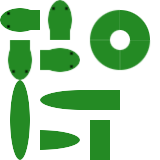
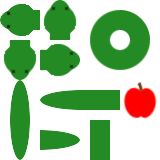
feat: add apple sprite and enhance snake visuals
- Fix transparency issues on snake body joints
- Increase snake head size for better visibility
- Add apple sprite to sprite sheet
- Implement Apple class in food.py
- Replace pellet with apple as snake food
- Update game to use apple instead of pellet class object

diff --git a/states/play_state.py b/states/play_state.py
@@ -8,14 +8,14 @@ from typing import TYPE_CHECKING
 if TYPE_CHECKING:
     from pathlib import Path
     from snake import Snake
-    from food import Pellet
+    from food import Apple
     from game_data import Game
 
 class PlayState(BaseState):
-    def __init__(self, snake: 'Snake', pellet: 'Pellet', grid_coords: list, game: 'Game', font_name: str, hs_file: 'Path'):
+    def __init__(self, snake: 'Snake', apple: 'Apple', grid_coords: list, game: 'Game', font_name: str, hs_file: 'Path'):
         super().__init__()
         self.snake = snake
-        self.pellet = pellet
+        self.apple = apple
         self.game = game
         self.grid_coords = grid_coords
         self.screen_width = SCREEN_WIDTH
@@ -50,16 +50,16 @@ class PlayState(BaseState):
             if new_high_score_check(self.hs_file, self.game.score, self.game.high_score):
                 self.game.high_score = self.game.score
 
-        if self.snake.head() == self.pellet.food_position:
+        if self.snake.head() == self.apple.food_position:
             self.game.score += 1
             self.snake.grow()
-            self.pellet.spawn(self.grid_coords, self.snake.body)
+            self.apple.spawn(self.grid_coords, self.snake.body)
 
 
     def draw(self, surface) -> None:
         self.draw_ui(surface, CHARCOAL, BORDER_GRAY, TEXT_WHITE, self.font_name)
         self.snake.draw(surface)
-        self.pellet.draw(surface)
+        self.apple.draw(surface)
 
 
     def draw_ui(self, surface, bar_colour: tuple, border_colour: tuple, text_colour: tuple, font_name: str) -> None:

diff --git a/main.py b/main.py
@@ -4,7 +4,7 @@ from settings import SCREEN_HEIGHT, SCREEN_WIDTH, FONT_NAME, HS_FILE, SEGMENT_SI
 from game_data import Game
 from graphics_manager import GraphicsManager
 from snake import Snake
-from food import Pellet
+from food import Apple
 from states import BaseState, TitleState, PlayState, GameOverState
 from utilities import load_or_create_file
 
@@ -53,10 +53,10 @@ while running:
 
     if current_state.next_state == "PLAY":
         snake: Snake = Snake(game)
-        pellet: Pellet = Pellet()
-        pellet.spawn(GRID_COORDS, snake.body)
+        apple: Apple = Apple(game.graphics_manager.apple)
+        apple.spawn(GRID_COORDS, snake.body)
         game.score = 0
-        current_state = PlayState(snake, pellet, GRID_COORDS, game, font_name, hs_file)
+        current_state = PlayState(snake, apple, GRID_COORDS, game, font_name, hs_file)
     elif current_state.next_state == "GAME_OVER":
             current_state = GameOverState(game)
     elif current_state.next_state == "TITLE":

diff --git a/graphics_manager.py b/graphics_manager.py
@@ -21,8 +21,7 @@ class GraphicsManager:
         self.snake_NE = pg.transform.scale_by(self.get_sprite(self.snake_spritesheet, 120, 0, 40, 40), 0.5)
         self.snake_SW = pg.transform.scale_by(self.get_sprite(self.snake_spritesheet, 80, 40, 40, 40), 0.5)
         self.snake_SE = pg.transform.scale_by(self.get_sprite(self.snake_spritesheet, 120, 40, 40, 40), 0.5)
-        
-
+        self.apple = pg.transform.scale_by(self.get_sprite(self.snake_spritesheet, 120, 80, 40, 40), 0.5)
 
     def get_sprite(self, sheet: pg.Surface, x: int, y: int, width: int, height: int) -> pg.Surface:
         # Create a new surface for the individual sprite

diff --git a/food.py b/food.py
@@ -42,5 +42,17 @@ class Pellet(Food):
     
     def draw(self, screen: pg.Surface) -> None:
         return super().draw(screen)
+    
+
+class Apple(Food):
+    def __init__(self, apple_image: pg.Surface):
+        super().__init__()
+        self.apple_image = apple_image
+        
+    def spawn(self, game_grid: list, snake_body: deque) -> None:
+        return super().spawn(game_grid, snake_body)
+
+    def draw(self, screen: pg.Surface) -> None:        
+        screen.blit(self.apple_image, self.food_position)
 
 
